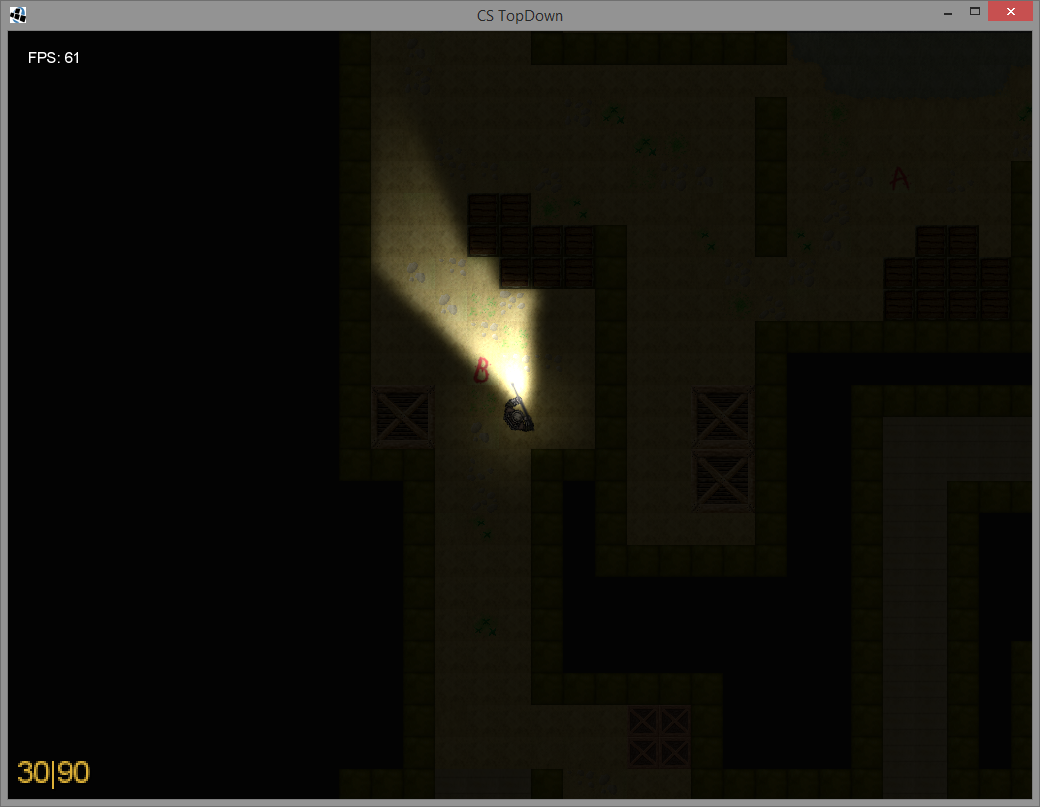
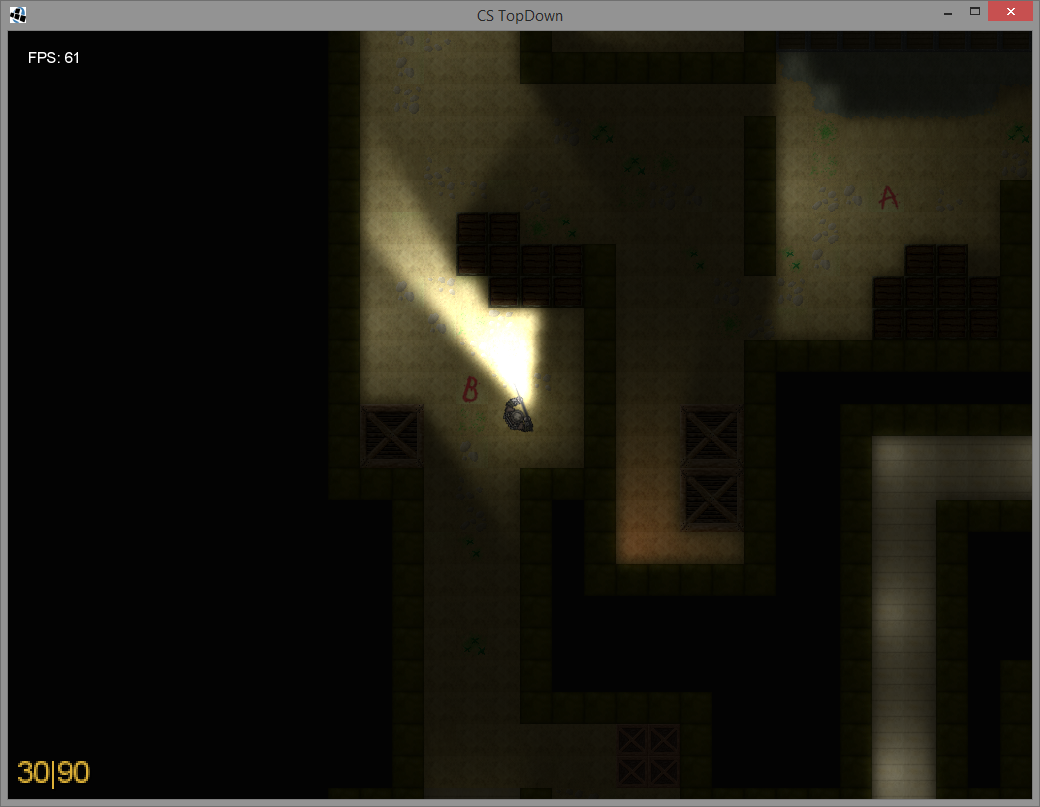
Maps can now define ambient light, and define lights.

diff --git a/core/src/com/nick/ant/towerdefense/renderables/entities/world/Map.java b/core/src/com/nick/ant/towerdefense/renderables/entities/world/Map.java
@@ -1,6 +1,8 @@
 package com.nick.ant.towerdefense.renderables.entities.world;
 
+import box2dLight.RayHandler;
 import com.badlogic.gdx.Gdx;
+import com.badlogic.gdx.graphics.Color;
 import com.badlogic.gdx.graphics.OrthographicCamera;
 import com.badlogic.gdx.maps.MapLayer;
 import com.badlogic.gdx.maps.MapObject;
@@ -12,6 +14,7 @@ import com.badlogic.gdx.maps.tiled.renderers.OrthogonalTiledMapRenderer;
 import com.badlogic.gdx.math.Rectangle;
 import com.badlogic.gdx.math.Vector2;
 import com.badlogic.gdx.physics.box2d.*;
+import com.nick.ant.towerdefense.components.LightManager;
 import com.nick.ant.towerdefense.renderables.entities.Entity;
 
 import java.util.ArrayList;
@@ -26,10 +29,12 @@ public class Map {
     private TiledMap map;
     private MapLayer collisionLayer;
     private MapLayer objectiveLayer;
+    private MapLayer lightLayer;
     private OrthogonalTiledMapRenderer renderer;
     private OrthographicCamera camera;
     private int mapWidth;
     private int mapHeight;
+    private Color ambientColour;
 
     private Entity entitySnap;
 
@@ -41,6 +46,11 @@ public class Map {
         MapProperties mapProperties = map.getProperties();
         int tX = mapProperties.get("width", Integer.class);
         int tY = mapProperties.get("height", Integer.class);
+
+        // Ambient colours
+        ambientColour = Color.valueOf(mapProperties.get("ambientColour", String.class));
+        ambientColour.a = Float.parseFloat(mapProperties.get("ambientAlpha", String.class));
+
         mapWidth = cellSize * tX;
         mapHeight = cellSize * tY;
 
@@ -57,6 +67,11 @@ public class Map {
                 if (((String)properties.get("objectives")).contentEquals("true"))    {
                     objectiveLayer = layer;
                     System.out.println("Found objective layer with " + layer.getObjects().getCount() + " objects");
+                }
+            } else if (properties.containsKey("lights")) {
+                if (((String)properties.get("lights")).contentEquals("true")) {
+                    lightLayer = layer;
+                    System.out.println("Found light layer with " + layer.getObjects().getCount() + " objects");
                 }
             }
         }
@@ -152,4 +167,34 @@ public class Map {
 
     }
 
+    public void addLightObjects(RayHandler rayHandler) {
+        if (lightLayer == null) {
+            return;
+        }
+
+        for (MapObject object : lightLayer.getObjects())   {
+            if (object instanceof RectangleMapObject) {
+                MapProperties mapProperties = object.getProperties();
+
+                // Fetch the rectangle collision box
+                Rectangle rectangle = ((RectangleMapObject) object).getRectangle();
+
+                LightManager.definePointLight(rayHandler, mapProperties,
+                        rectangle.getX() +  (cellSize/2),
+                        rectangle.getY() +  (cellSize/2));
+            }
+        }
+    }
+
+    public int getMapWidth() {
+        return mapWidth;
+    }
+
+    public int getMapHeight() {
+        return mapHeight;
+    }
+
+    public Color getAmbientColour() {
+        return ambientColour;
+    }
 }

diff --git a/core/src/com/nick/ant/towerdefense/components/LightManager.java b/core/src/com/nick/ant/towerdefense/components/LightManager.java
@@ -5,6 +5,7 @@ import box2dLight.Light;
 import box2dLight.PointLight;
 import box2dLight.RayHandler;
 import com.badlogic.gdx.graphics.Color;
+import com.badlogic.gdx.maps.MapProperties;
 
 /**
  * Created by Nick on 14/02/2015.
@@ -15,6 +16,27 @@ public class LightManager {
     }
 
     public static Light definePlayerGlow(RayHandler rayHandler) {
-        return new PointLight(rayHandler, 100, new Color(0, 0, 0, 0.5f), 100, 0, 0);
+        PointLight pointLight = new PointLight(rayHandler, 100, new Color(0, 0, 0, 0.5f), 100, 0, 0);
+
+        pointLight.setXray(true);
+
+        return pointLight;
+    }
+
+    public static Light definePointLight(RayHandler rayHandler, MapProperties mapProperties, float x, float y) {
+        PointLight pointLight = new PointLight(rayHandler, 100);
+
+        // Make them not so expensive..
+        pointLight.setStaticLight(true);
+        // Get the colourd
+        Color color = Color.valueOf(mapProperties.get("color", String.class));
+        color.a = Float.parseFloat(mapProperties.get("alpha", String.class));
+        pointLight.setColor(color);
+        // The size
+        pointLight.setDistance(Integer.parseInt(mapProperties.get("distance", String.class)));
+        // Position
+        pointLight.setPosition(x, y);
+
+        return pointLight;
     }
 }

diff --git a/core/src/com/nick/ant/towerdefense/rooms/RoomGame.java b/core/src/com/nick/ant/towerdefense/rooms/RoomGame.java
@@ -43,8 +43,10 @@ public class RoomGame extends Room {
         // Setup lighting engine
         RayHandler rayHandler = new RayHandler(world);
         rayHandler.setShadows(true);
-        rayHandler.setAmbientLight(new Color(0, 0, 0, .1f));
+        rayHandler.setAmbientLight(map.getAmbientColour());
         rayHandlerWrapper = new RayHandlerWrapper(rayHandler, map);
+        // Add map lights
+        map.addLightObjects(rayHandler);
 
         // Define a player object
         userPlayer = new UserPlayer(16,16);

diff --git a/core/src/com/nick/ant/towerdefense/renderables/entities/players/Player.java b/core/src/com/nick/ant/towerdefense/renderables/entities/players/Player.java
@@ -29,7 +29,7 @@ public class Player extends Entity {
     protected boolean moveDown = false;
     protected boolean moveLeft = false;
     protected boolean moveRight = false;
-    private boolean lightOn = true;
+    private boolean lightOn = false;
 
     private Weapon weaponPrimary;
     private Bone leftHand;
